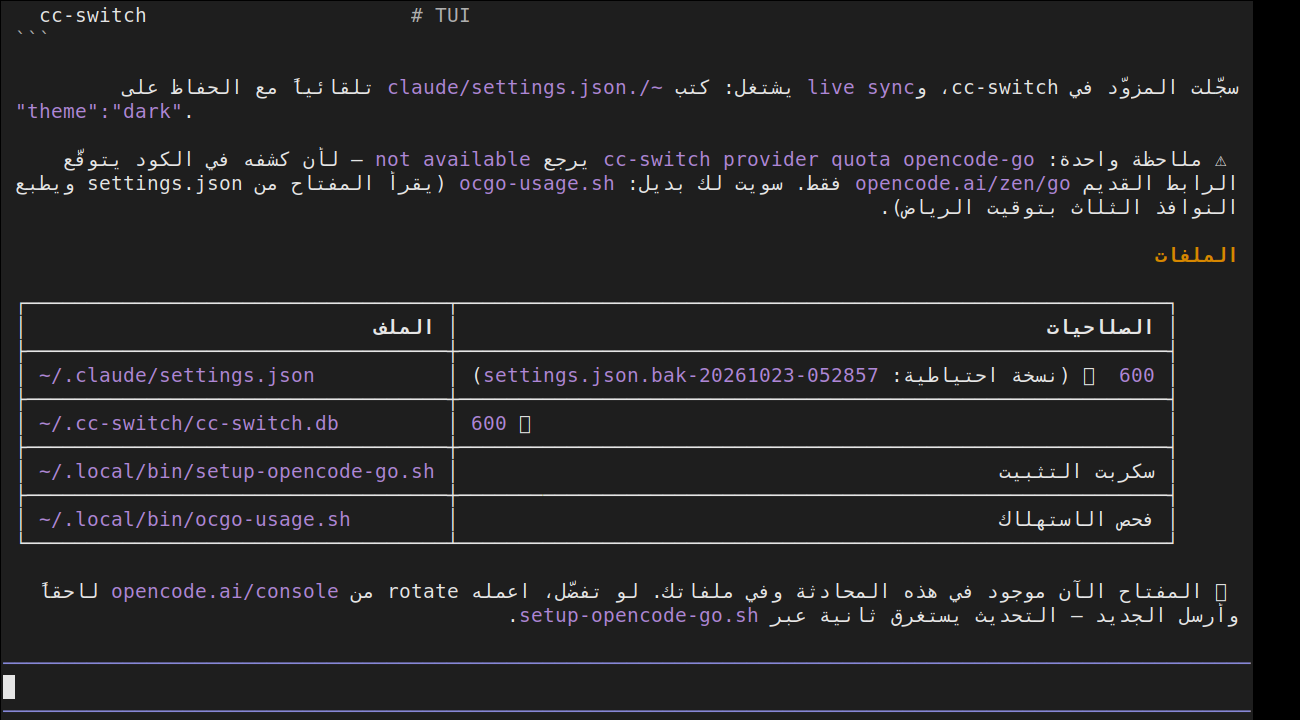
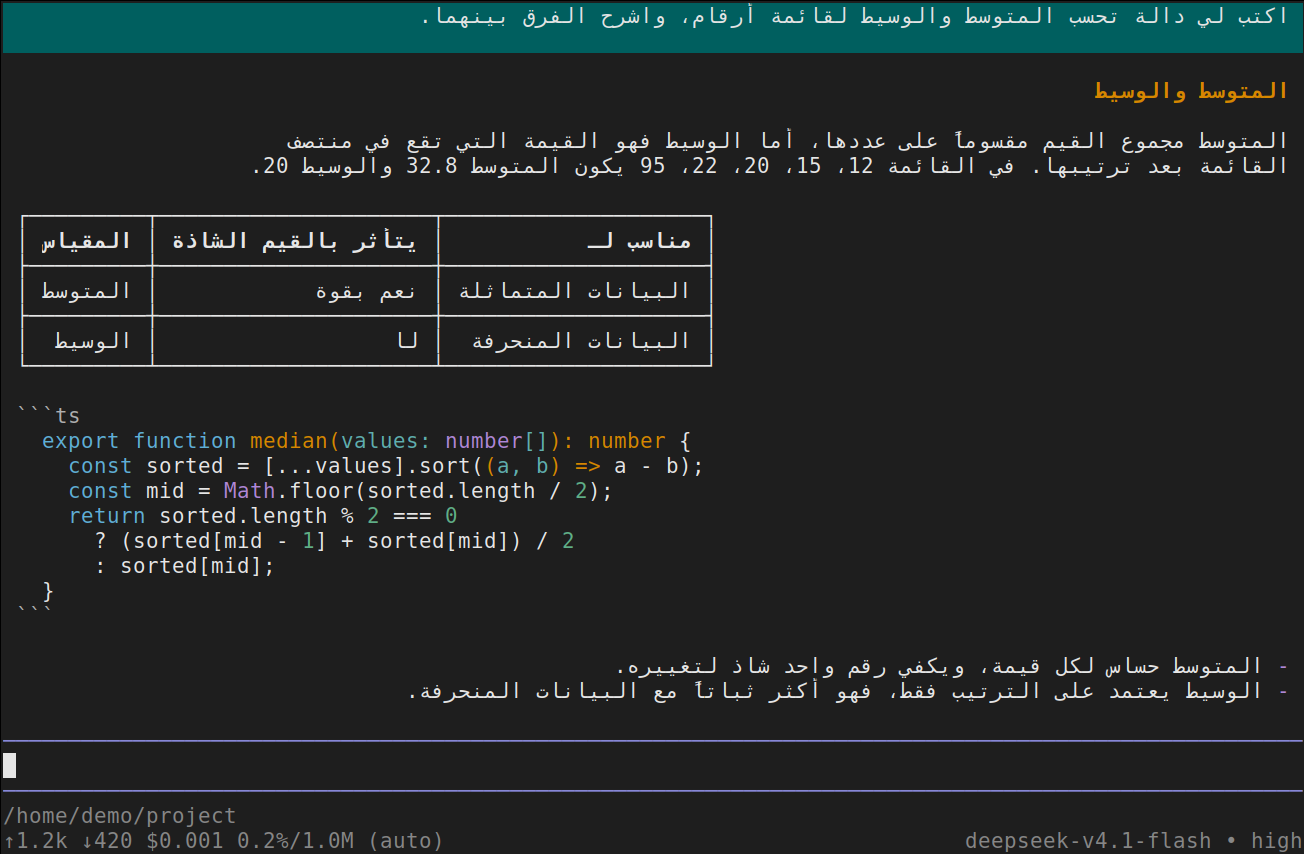
docs: split README into English + Arabic, replace screenshot with synthetic demo
The previous screenshot came from a real session and showed provider details,
local paths and a sentence about keys. Replaced with a generated session
(docs/demo-session.jsonl) that renders a table, a code block and a list.

Also pad to width-1 so a right-aligned line cannot auto-wrap the terminal.

diff --git a/README.md b/README.md
@@ -1,145 +1,137 @@
-# pi-rtl — العربية في pi
+# pi-rtl
 
-عرض صحيح للعربية (اتجاه + تشكيل الحروف) داخل [pi](https://pi.dev) على أي طرفية،
-بدون الحاجة إلى طرفية تدعم BiDi أو Arabic shaping.
+Arabic, Persian, Urdu and Hebrew rendering for the [pi](https://pi.dev) coding
+agent — on terminals that implement neither bidi reordering nor Arabic shaping
+(Windows Terminal, mintty/Git Bash, Kitty, Alacritty, Ghostty, iTerm2).
 
-![pi with Arabic](docs/screenshot.png)
+[العربية](README.ar.md) · English
 
-## المشكلة
+![pi rendering an Arabic answer with a table, code block and list](docs/screenshot.png)
 
-`pi` ترسل النص كـ UTF-8 خام + ANSI، ولا تطبق خوارزمية الاتجاه (UAX #9) ولا
-تشكيل الحروف العربية. أغلب الطرفيات كذلك: Windows Terminal، mintty/Git Bash،
-Kitty، Alacritty، Ghostty، iTerm2. النتيجة:
+## The problem
+
+pi writes UTF-8 text with ANSI styling and leaves the layout to the terminal. It
+does not run the Unicode Bidirectional Algorithm and does not shape Arabic
+letters, and neither do most terminals. What you get:
 
 ```
-ابحرم            ← المفروض: مرحبا
-م ر ح ب ا        ← حروف مقطّعة
-12 ... %         ← علامة النسبة منفصلة عن الرقم
+ابحرم            instead of  مرحبا
+م ر ح ب ا        disconnected letters
+12 ... %         the percent sign detached from its number
 ```
 
-## الحل
-
-سطر واحد يُعدّل في renderer الخاص بـ pi: النص يُحوَّل إلى ترتيب بصري + صور
-الحروف المتصلة **قبل** كتابته للطرفية.
+## Install
 
 ```sh
 curl -fsSL https://raw.githubusercontent.com/maaune10-netizen/pi-rtl/main/install.sh | sh
 ```
 
-ثم أعد تشغيل `pi`. لا اعتماديات، لا خادم، لا تغيير في النص المرسل للنموذج.
+Restart pi. Re-run the command after every `pi update` — a new release replaces
+the bundle.
 
-بدائل:
-
-```sh
-# عبر npx (npm أقل من 12)
-npx -y github:maaune10-netizen/pi-rtl
-# npm 12 يمنع حزم git افتراضياً، فأضف العلم
-npx -y --allow-git=all github:maaune10-netizen/pi-rtl
-
-# أو استنسخ يدوياً
-git clone https://github.com/maaune10-netizen/pi-rtl
-cd pi-rtl
-node bin/pi-rtl.mjs            # تطبيق
-node bin/pi-rtl.mjs --check    # الحالة
-node bin/pi-rtl.mjs --undo     # رجوع
-```
-
-### الخط مهم
-
-المخرج يستخدم صور الحروف العربية (U+FB50–FDFF، U+FE70–FEFF). لازم الخط يحتويها:
-
-* ✅ DejaVu Sans Mono، Segoe UI، Arial، Tahoma، Noto Naskh Arabic
-* ❌ Consolas، JetBrains Mono، Fira Code، Menlo → مربعات `□`
-
-على ويندوز: إعدادات الطرفية ← الخط. في mintty: `Options → Text → Font`.
-
-## English
-
-Correct Arabic/Persian/Hebrew rendering (bidi reordering + contextual shaping)
-inside [pi](https://pi.dev), on terminals that have neither.
-
-```sh
-curl -fsSL https://raw.githubusercontent.com/maaune10-netizen/pi-rtl/main/install.sh | sh
-```
-
-Restart pi afterwards. Re-run it after every `pi update` (a new release replaces
-the bundle).
-
-Alternatives:
+Other ways in:
 
 ```sh
 npx -y github:maaune10-netizen/pi-rtl                  # npm < 12
 npx -y --allow-git=all github:maaune10-netizen/pi-rtl  # npm 12 blocks git deps by default
-git clone https://github.com/maaune10-netizen/pi-rtl && cd pi-rtl && node bin/pi-rtl.mjs
+
+git clone https://github.com/maaune10-netizen/pi-rtl
+cd pi-rtl
+node bin/pi-rtl.mjs            # apply
+node bin/pi-rtl.mjs --check    # status
+node bin/pi-rtl.mjs --undo     # revert
 ```
 
-### How it works
+No dependencies, no server, no proxy. What is sent to the model is unchanged —
+only what reaches your screen.
 
-The renderer composes each output line and writes it to stdout. This patch
-intercepts that single call site:
+### Your font matters
+
+The output uses Arabic presentation forms (U+FB50–FDFF, U+FE70–FEFF), so the
+terminal font must contain them:
+
+* ✅ DejaVu Sans Mono, Segoe UI, Arial, Tahoma, Noto Naskh Arabic
+* ❌ Consolas, JetBrains Mono, Fira Code, Menlo → you get `□` boxes
+
+Windows Terminal: Settings → Appearance → Font face.
+mintty / Git Bash: `Options → Text → Font`.
+
+## How it works
+
+pi composes every output line, then writes it. The patch intercepts that single
+call site:
 
 ```
 normalizeTerminalOutput(line)+reset
   -> __piRtl(normalizeTerminalOutput(line),this.terminal.columns)+reset
 ```
 
-`rtl.mjs` then:
+`rtl.mjs` then, for every line that contains RTL characters:
 
-1. splits the line into per-code-point cells and records the SGR state of each,
+1. splits the line into per-code-point cells and records the SGR state of each
+   cell, so colour and OSC 8 hyperlinks survive the permutation,
 2. runs the Unicode Bidirectional Algorithm
    ([`bidi-shaper`](https://github.com/cc1a2b/bidi-shaper), verified against all
-   861,948 official UAX #9 conformance cases) per segment,
-3. converts Arabic letters to their presentation forms (joining),
-4. permutes the cells into visual order — a pure permutation, so the cell count
-   is unchanged and every width/wrap/diff calculation in pi keeps working,
-5. re-emits the SGR changes at the new positions (colors and hyperlinks survive),
-6. treats box-drawing characters and `|` as hard bidi boundaries, like mlterm's
-   `bidi_separators`, so tables and borders never flip,
+   861,948 official UAX #9 conformance cases),
+3. converts Arabic letters into their presentation forms (joining),
+4. permutes the cells into visual order — a pure permutation, so **the cell
+   count never changes** and pi's width, wrapping, overlays and differential
+   rendering keep working untouched,
+5. re-emits the SGR changes at the new cell positions,
+6. treats box-drawing characters and `|` as hard bidi boundaries, the way
+   mlterm's `bidi_separators` do, so tables and TUI borders never flip,
 7. flushes RTL paragraphs to the right margin, which also puts the caret on the
-   correct side while typing Arabic.
+   correct side while you type Arabic.
 
-Paragraph direction is decided **per segment**: Arabic-first segments resolve
-RTL (like mlterm and macOS Terminal), English-first segments stay LTR. Lines
-without RTL characters take a regex fast path and are untouched.
+Paragraph direction is decided **per segment**, not per line: Arabic-first
+segments resolve RTL (like mlterm and macOS Terminal), English-first segments
+stay LTR. Lines without RTL characters take a regex fast path and are returned
+byte-identical.
 
-### Tests
+## Tests
 
 ```sh
-node test/run.mjs      # 132 cases, oracle = bidi-shaper.render()
+node test/run.mjs        # 132 cases
+node test/run.mjs -v     # print every case
 ```
 
-The oracle is the conformance-tested library applied with the same segment
-split, so a failure points at this project's reordering code, not at the UBA
-implementation.
+The oracle is `bidi-shaper.render()` applied with the same segment split, so a
+failure points at this project's reordering code rather than at the UBA
+implementation. Coverage: ordering, numbers and percentages, brackets and
+quotes, tables, ANSI spans, alignment, harakat, mixed scripts, real pi lines.
 
-### Uninstall
+## Uninstall
 
 ```sh
 node bin/pi-rtl.mjs --undo
-rm -rf "$HOME/.pi/agent/install/releases/*/node_modules/@earendil-works/pi-coding-agent/dist/bundle/pi-rtl"
 ```
 
-### Known gaps
+That is a plain string replacement back to the stock renderer; the patch carries
+no runtime state anywhere else.
 
-* Right alignment is skipped on lines with wide characters (CJK, emoji) because
-  pi's `wcwidth` is not available inside the transform.
+## Known gaps
+
+* Right alignment is skipped for lines containing wide characters (CJK, emoji),
+  because pi's `wcwidth` is not reachable from inside the transform.
 * `لا` is drawn as lam-initial + alef-final instead of the single ligature, to
   keep the cell count stable.
-* A path right after an Arabic word can lose its leading `/` to the RTL run
-  (`الملف: home/user/x`). That is what UAX #9 specifies; mlterm deviates.
-  Splitting on `/` would break `و/أو`.
-* Combining marks stay attached to their base (cluster-level reversal).
+* A path immediately after an Arabic word can lose its leading `/` to the RTL
+  run (`الملف: home/user/x`). That is what UAX #9 specifies for a neutral slash
+  between an RTL and an LTR run; mlterm deviates. Splitting on `/` would break
+  `و/أو`.
+* Combining marks stay attached to their base (cluster-level reversal), which
+  intentionally differs from a naive per-code-point UBA pass.
 * Only the standalone pi install (`dist/bundle`) is supported. If pi is loaded
-  from `node_modules`, the installer exits with an error instead of pretending.
+  from `node_modules`, the installer says so and exits instead of pretending.
 
 ## Credits
 
 * [`bidi-shaper`](https://github.com/cc1a2b/bidi-shaper) — MIT, vendored in
-  `src/vendor/bidi-shaper/` (UAX #9 + Arabic shaping, zero dependencies).
-* Prior art: [mlterm](https://github.com/arakiken/mlterm) for the separator
-  behaviour, and the freedesktop
+  `src/vendor/bidi-shaper/`. UAX #9 plus Arabic shaping, zero dependencies.
+* [mlterm](https://github.com/arakiken/mlterm) for the separator behaviour.
+* The freedesktop
   [BiDi in Terminal Emulators](https://terminal-wg.pages.freedesktop.org/bidi)
-  spec.
+  draft, for framing the problem.
 
 ## License
 

diff --git a/README.ar.md b/README.ar.md
@@ -1,0 +1,132 @@
+# pi-rtl
+
+عرض صحيح للعربية والفارسية والأردية والعبرية داخل [pi](https://pi.dev) — على أي
+طرفية، حتى اللي ما تدعم لا خوارزمية الاتجاه ولا تشكيل الحروف: Windows Terminal،
+mintty/Git Bash، Kitty، Alacritty، Ghostty، iTerm2.
+
+العربية · [English](README.md)
+
+![pi يعرض رداً عربياً فيه جدول وشيفرة وقائمة](docs/screenshot.png)
+
+## المشكلة
+
+`pi` ترسل نص UTF-8 مع أنماط ANSI وتترك التنسيق للطرفية. هي لا تطبق خوارزمية
+الاتجاه من يونيكود (UAX #9) ولا تشكّل الحروف العربية، وأغلب الطرفيات كذلك.
+النتيجة:
+
+```
+ابحرم            بدل  مرحبا
+م ر ح ب ا        حروف مقطّعة
+12 ... %         علامة النسبة منفصلة عن رقمها
+```
+
+## التثبيت
+
+```sh
+curl -fsSL https://raw.githubusercontent.com/maaune10-netizen/pi-rtl/main/install.sh | sh
+```
+
+ثم أعد تشغيل `pi`. أعد الأمر نفسه بعد كل `pi update` — الإصدار الجديد يستبدل
+ملفات `pi`.
+
+طرق أخرى:
+
+```sh
+npx -y github:maaune10-netizen/pi-rtl                  # npm أقل من 12
+npx -y --allow-git=all github:maaune10-netizen/pi-rtl  # npm 12 يمنع حزم git افتراضياً
+
+git clone https://github.com/maaune10-netizen/pi-rtl
+cd pi-rtl
+node bin/pi-rtl.mjs            # تطبيق
+node bin/pi-rtl.mjs --check    # الحالة
+node bin/pi-rtl.mjs --undo     # رجوع
+```
+
+لا اعتماديات، لا خادم، لا وسيط. النص المرسل للنموذج لا يتغير إطلاقاً — التغيير
+فيما يصل إلى شاشتك فقط.
+
+### الخط مهم
+
+المخرج يستخدم صور الحروف العربية (U+FB50–FDFF، U+FE70–FEFF)، فلازم خط الطرفية
+يحتويها:
+
+* ✅ DejaVu Sans Mono، Segoe UI، Arial، Tahoma، Noto Naskh Arabic
+* ❌ Consolas، JetBrains Mono، Fira Code، Menlo ← تعطيك مربعات `□`
+
+في Windows Terminal: الإعدادات ← المظهر ← الخط.
+في mintty / Git Bash: `Options → Text → Font`.
+
+## كيف يعمل
+
+`pi` تركّب كل سطر إخراج ثم تكتبه. الـpatch يعترض ذلك الموضع الوحيد:
+
+```
+normalizeTerminalOutput(line)+reset
+  -> __piRtl(normalizeTerminalOutput(line),this.terminal.columns)+reset
+```
+
+بعدها `rtl.mjs` — لكل سطر فيه محارف RTL:
+
+1. يفكّك السطر إلى خلايا (code point لكل خلية) ويسجل حالة SGR لكل خلية، فتبقى
+   الألوان وروابط OSC 8 سليمة بعد التبديل،
+2. يشغّل خوارزمية الاتجاه من يونيكود
+   ([`bidi-shaper`](https://github.com/cc1a2b/bidi-shaper)، متحقَّق منها ضد كل
+   ٨٦١,٩٤٨ حالة اختبار رسمية)،
+3. يحوّل الحروف العربية إلى صورها المتصلة (تشكيل)،
+4. يعيد ترتيب الخلايا بصرياً — **تبديل خلايا لا أكثر**، فعدد الخلايا لا يتغير
+   وحسابات العرض والالتفاف والطبقات والرسم التفاضلي في pi تبقى كما هي،
+5. يعيد إصدار تغييرات SGR في المواضع الجديدة،
+6. يعامل محارف رسم الصناديق و`|` كحدود اتجاه صلبة، كما تفعل
+   `bidi_separators` في mlterm، فلا تنقلب الجداول ولا إطارات الواجهة،
+7. يدفع الفقرات العربية إلى الهامش الأيمن، وهذا يضبط موضع المؤشر أيضاً أثناء
+   الكتابة العربية.
+
+اتجاه الفقرة يُحدَّد **لكل مقطع** لا لكل سطر: المقطع الذي يبدأ بعربي يصير RTL
+(مثل mlterm وطرفية macOS)، والذي يبدأ بإنجليزي يبقى LTR. الأسطر الخالية من
+العربية تمرّ عبر مسار سريع وتُعاد كما هي حرفياً.
+
+## الاختبارات
+
+```sh
+node test/run.mjs        # ١٣٢ حالة
+node test/run.mjs -v     # طباعة كل حالة
+```
+
+المرجع هو `bidi-shaper.render()` بنفس تقسيم المقاطع، فأي فشل يشير إلى كود
+الترتيب في هذا المشروع لا إلى تنفيذ الخوارزمية. التغطية: الترتيب، الأرقام
+والنسب، الأقواس والاقتباسات، الجداول، أنماط ANSI، المحاذاة، التشكيل، اللغات
+المختلطة، وأسطر pi الحقيقية.
+
+## الإزالة
+
+```sh
+node bin/pi-rtl.mjs --undo
+```
+
+استبدال نصّي بسيط يرجع المرسّم الأصلي؛ الـpatch لا يترك حالة في أي مكان آخر.
+
+## قصور معروف
+
+* المحاذاة اليمنى تُتخطّى في الأسطر التي فيها محارف عريضة (CJK، إيموجي) لأن
+  `wcwidth` الخاص بـ pi غير متاح من داخل المحوّل.
+* `لا` تُرسم كـ(لام أولية + ألف نهائية) بدل الـligature الواحد، للحفاظ على عدد
+  الخلايا.
+* المسار الملاصق لكلمة عربية قد يفقد `/` الأولى لصالح مقطع الـRTL
+  (`الملف: home/user/x`). هذا ما ينص عليه المعيار لشرطة محايدة بين مقطع عربي
+  ومقطع لاتيني، وmlterm يخالفه. التقسيم على `/` كان سيكسر `و/أو`.
+* الحركات تبقى ملتصقة بحروفها (عكس على مستوى الـcluster)، وهذا يختلف عمداً عن
+  تمرير ساذج على مستوى الـcode point.
+* ندعم تثبيت pi المستقل (`dist/bundle`) فقط. لو كان pi يعمل من `node_modules`
+  فالمثبّت يقول ذلك ويتوقف، بدل أن يدّعي النجاح.
+
+## شكر
+
+* [`bidi-shaper`](https://github.com/cc1a2b/bidi-shaper) — MIT، مضمّن في
+  `src/vendor/bidi-shaper/`: خوارزمية UAX #9 مع تشكيل العربية، بلا اعتماديات.
+* [mlterm](https://github.com/arakiken/mlterm) لفكرة فواصل الاتجاه.
+* مسودة [BiDi in Terminal Emulators](https://terminal-wg.pages.freedesktop.org/bidi)
+  من freedesktop لتأطير المشكلة.
+
+## الترخيص
+
+MIT

diff --git a/AGENTS.md b/AGENTS.md
@@ -66,6 +66,22 @@ When you change behaviour, add cases to `test/corpus.mjs`:
   stay attached to their base instead of being reversed per code point).
 * `alignCases` — `[id, input, width]` for right-alignment expectations.
 
+## Regenerating the README screenshot
+
+`docs/demo-session.jsonl` is a synthetic session (user question plus one
+assistant reply with a table, a code block and a list — no real paths, keys or
+provider data). To rebuild the image:
+
+```sh
+cd <some empty dir>
+pi --session <repo>/docs/demo-session.jsonl --offline
+# screenshot the window, then crop it to the window geometry
+```
+
+Render it in `xterm`, not `mlterm`: mlterm shapes Arabic itself and would hide
+regressions. If the assistant message lacks `api`/`model` fields pi crashes in
+`addUsageToTotals`, so keep the shape of the entry as it is.
+
 ## Verifying on a machine
 
 ```sh
